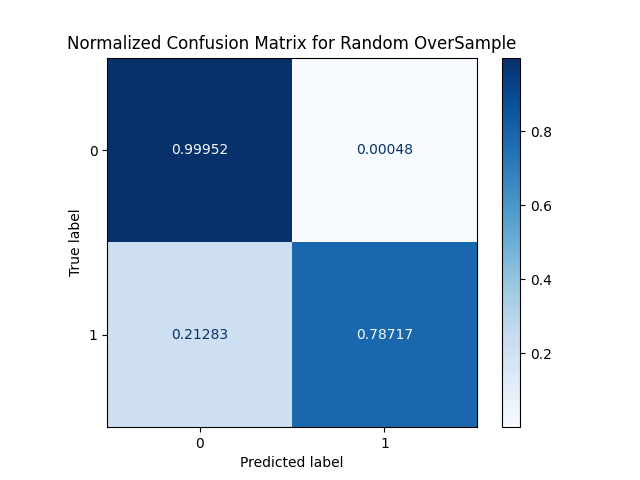
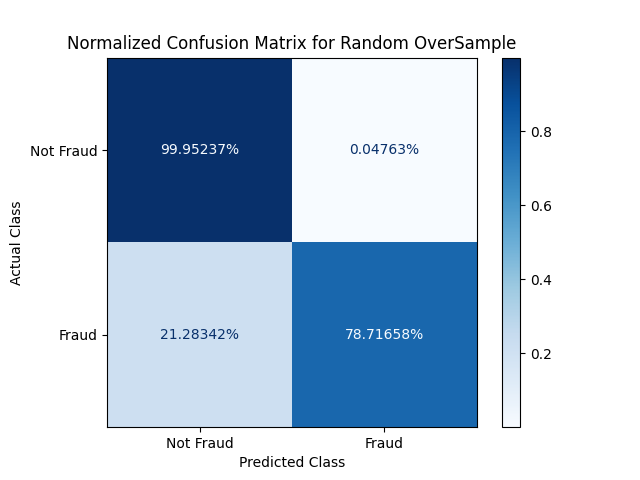
reformated confusion matrices adn updated results format

diff --git a/resampling_experimentation/resampling.py b/resampling_experimentation/resampling.py
@@ -62,7 +62,8 @@ def getTrainingSample(resampling_method, X_train, Y_train):
             return X_res, Y_res
 
         case "NearMiss-3":
-            sampler = NearMiss(version=3)
+            # added a neighbours_ver3 value of 7 to increase the pool that is sampled from to prevent a sampling error
+            sampler = NearMiss(version=3, n_neighbors_ver3=7)
             X_res, Y_res = sampler.fit_resample(X_train, Y_train)
             del sampler
             return X_res, Y_res
@@ -89,22 +90,24 @@ def getResults(resampling_method, Y_test, Y_pred):
     with open("results.txt", "a") as f:
         f.write(f"\nClassification Report for {resampling_method}:\n\n")
 
-        f.write(f"Accuracy:  {acc:.5f}\n")
-        f.write(f"Precision: {prec:.5f}\n")
-        f.write(f"Recall:    {rec:.5f}\n")
-        f.write(f"F1 Score:  {f1:.5f}\n\n")
+        f.write(f"Accuracy:  {acc * 100:.5f}%\n")
+        f.write(f"Precision: {prec * 100:.5f}%\n")
+        f.write(f"Recall:    {rec * 100:.5f}%\n")
+        f.write(f"F1 Score:  {f1 * 100:.5f}%\n\n")
 
-        f.write(f"True Positive:  {tp:.5f}%\n")
-        f.write(f"True Negative:  {tn:.5f}%\n")
-        f.write(f"False Positive: {fp:.5f}%\n")
-        f.write(f"False Negative: {fp:.5f}%\n\n")
+        f.write(f"True Positive:  {tp * 100:.5f}%\n")
+        f.write(f"True Negative:  {tn * 100:.5f}%\n")
+        f.write(f"False Positive: {fp * 100:.5f}%\n")
+        f.write(f"False Negative: {fp * 100:.5f}%\n\n")
 
-        f.write(classification_report(Y_test, Y_pred))
+        f.write(classification_report(Y_test, Y_pred, digits=5))
         f.write("\n")
 
     # Create and save plot
-    disp = ConfusionMatrixDisplay(confusion_matrix=cm)
-    disp.plot(cmap='Blues', values_format=".5f")
+    disp = ConfusionMatrixDisplay(confusion_matrix=cm, display_labels=["Not Fraud", "Fraud"])
+    disp.plot(cmap='Blues', values_format=".5%")
+    disp.ax_.set_xlabel("Predicted Class")
+    disp.ax_.set_ylabel("Actual Class")
     plt.title(f"Normalized Confusion Matrix for {resampling_method}")
     plt.savefig(f"Confusion Matrix - {resampling_method}.png")
     plt.clf()
